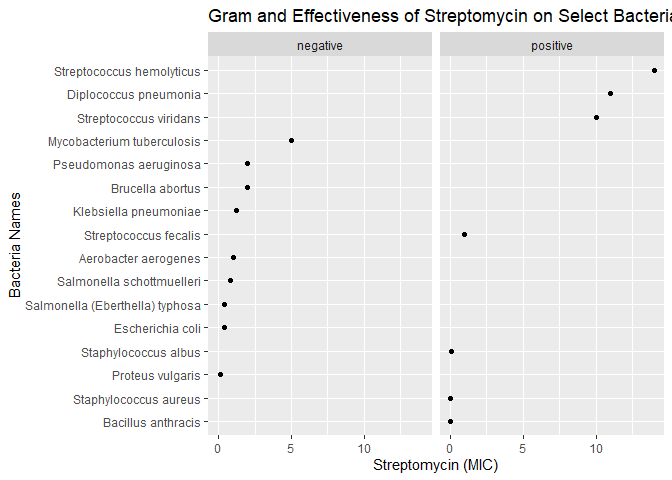
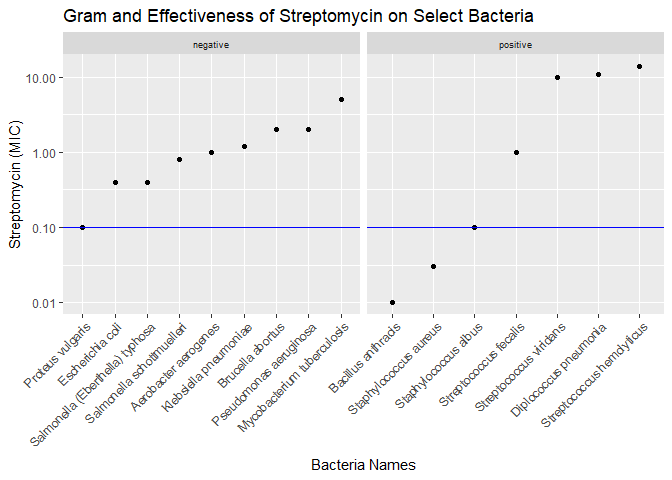
Resubmission of Challenge 5

diff --git a/challenges/c05-antibiotics-assignment.md b/challenges/c05-antibiotics-assignment.md
@@ -1,7 +1,7 @@
 Antibiotics
 ================
 Katherine Danielson
-02-25-2025
+02-25-2025 Resubmitted (3-11-25)
 
 *Purpose*: Creating effective data visualizations is an *iterative*
 process; very rarely will the first graph you make be the most
@@ -247,14 +247,20 @@ your other visuals.
 ``` r
 df_antibiotics %>%
   mutate(bacteria = fct_reorder(bacteria, streptomycin)) %>%
-  ggplot(aes(streptomycin, bacteria)) +
+  ggplot(aes(bacteria, streptomycin)) +
   geom_point() +
-  facet_wrap(~gram) +
+  geom_hline(yintercept = 0.1, color = "blue") +
+  facet_wrap(~gram, scale = "free_x") +
   labs(
     title = "Gram and Effectiveness of Streptomycin on Select Bacteria",
-    y = "Bacteria Names",
-    x = "Streptomycin (MIC)"
-  )
+    y = "Streptomycin (MIC)",
+    x = "Bacteria Names"
+  ) +
+  theme(
+    axis.text.x = element_text(angle = 45, vjust = 1, hjust = 1),
+    strip.text = element_text(size = 6.5)
+  ) +
+  scale_y_log10()
 ```
 
 ![](c05-antibiotics-assignment_files/figure-gfm/q1.4-1.png)<!-- -->
@@ -270,21 +276,15 @@ your other visuals.
 
 ``` r
 df_antibiotics %>% 
-  pivot_longer(
-    names_to = "Antibiotics",
-    values_to = "effectiveness",
-    c(penicillin, streptomycin, neomycin)
-  ) %>% 
-    mutate(bacteria = fct_reorder(bacteria, effectiveness)) %>%
-
-  ggplot(aes(effectiveness, bacteria)) +
+  ggplot(aes(neomycin, penicillin, color = gram)) +
   geom_point() +
-  facet_grid(~Antibiotics) +
+  geom_text_repel(aes(label = bacteria), size = 3, max.overlaps = 15) +  
   scale_x_log10() +
+  scale_y_log10() +
   labs(
-    title = "Effectiveness of Select Antibiotics on Bacteria",
-    y = "Bacteria Names",
-    x = "Effectiveness (MIC)"
+    title = "Neomycin and Penicillin MIC Values for 16 bacteria",
+    y = "Penicillin (MIC)",
+    x = "Neomycin (MIC)"
   )
 ```
 
@@ -436,3 +436,25 @@ df_antibiotics %>%
 ```
 
 ![](c05-antibiotics-assignment_files/figure-gfm/unnamed-chunk-1-1.png)<!-- -->
+
+``` r
+df_antibiotics %>% 
+  pivot_longer(
+    names_to = "Antibiotics",
+    values_to = "effectiveness",
+    c(penicillin, streptomycin, neomycin)
+  ) %>% 
+    mutate(bacteria = fct_reorder(bacteria, effectiveness)) %>%
+
+  ggplot(aes(effectiveness, bacteria)) +
+  geom_point() +
+  facet_grid(~Antibiotics) +
+  scale_x_log10() +
+  labs(
+    title = "Effectiveness of Select Antibiotics on Bacteria",
+    y = "Bacteria Names",
+    x = "Effectiveness (MIC)"
+  )
+```
+
+![](c05-antibiotics-assignment_files/figure-gfm/unnamed-chunk-2-1.png)<!-- -->
